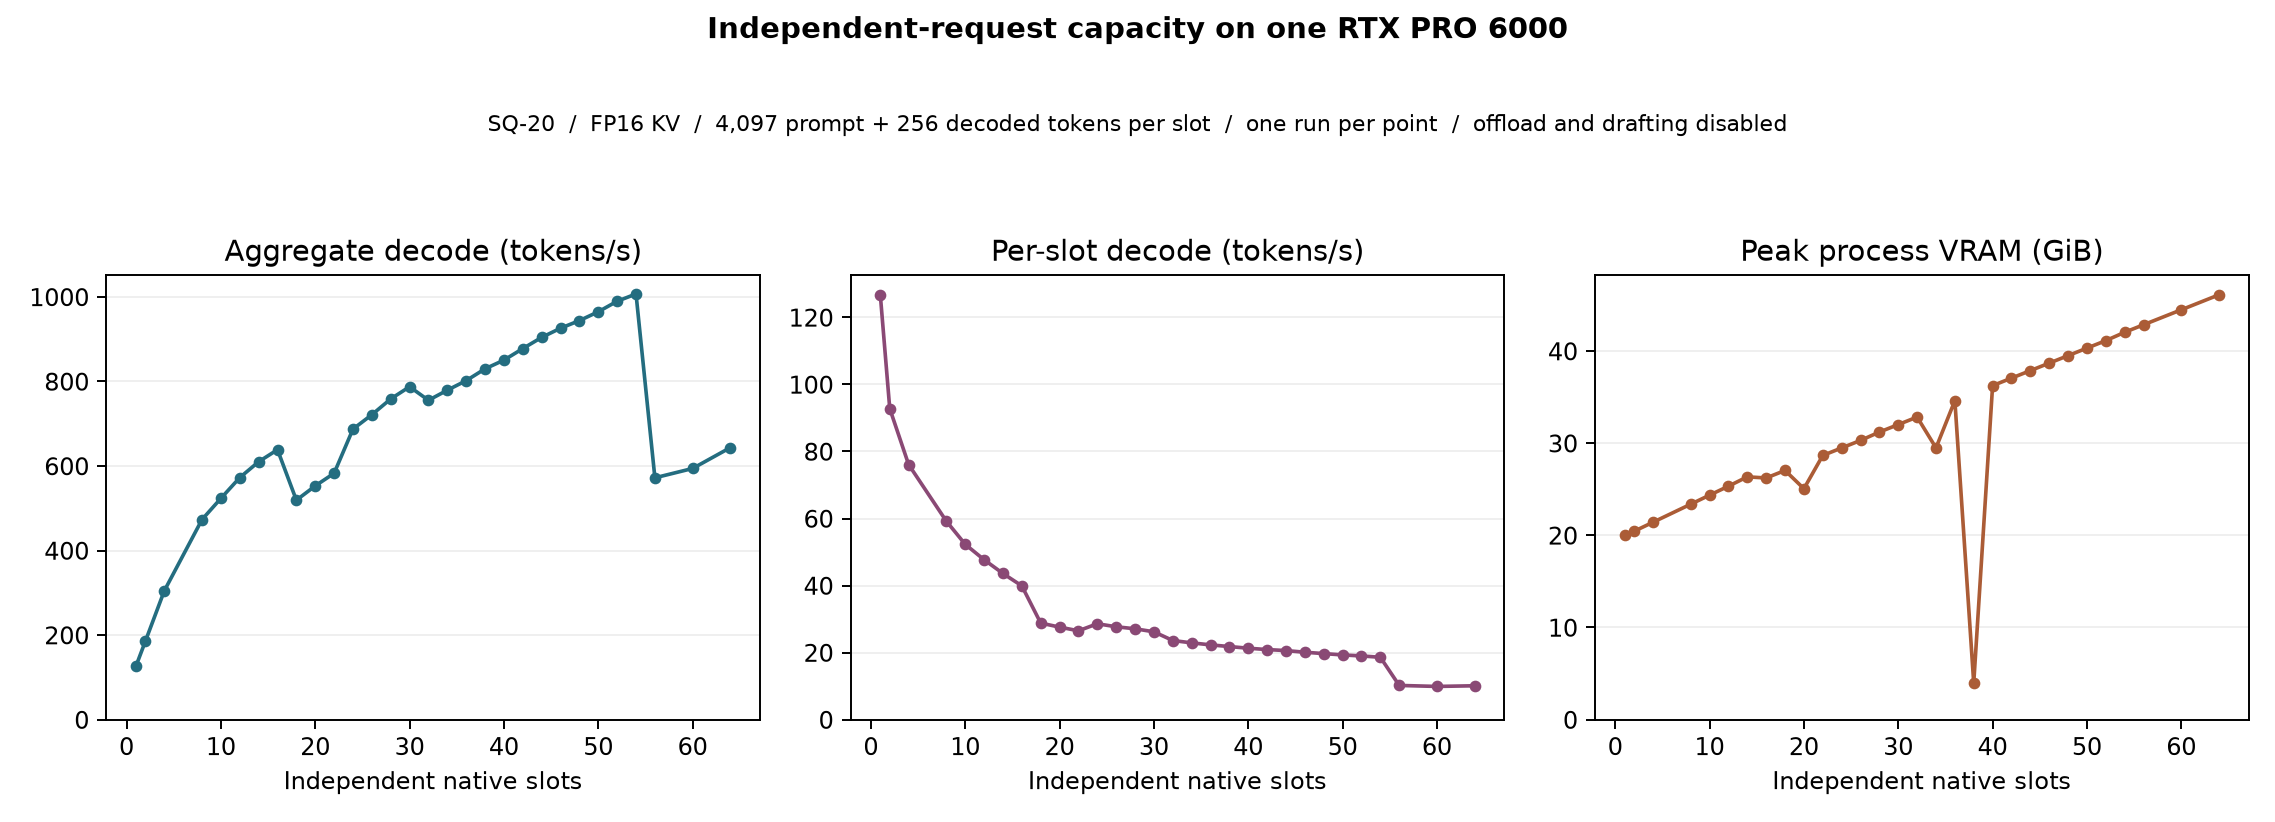
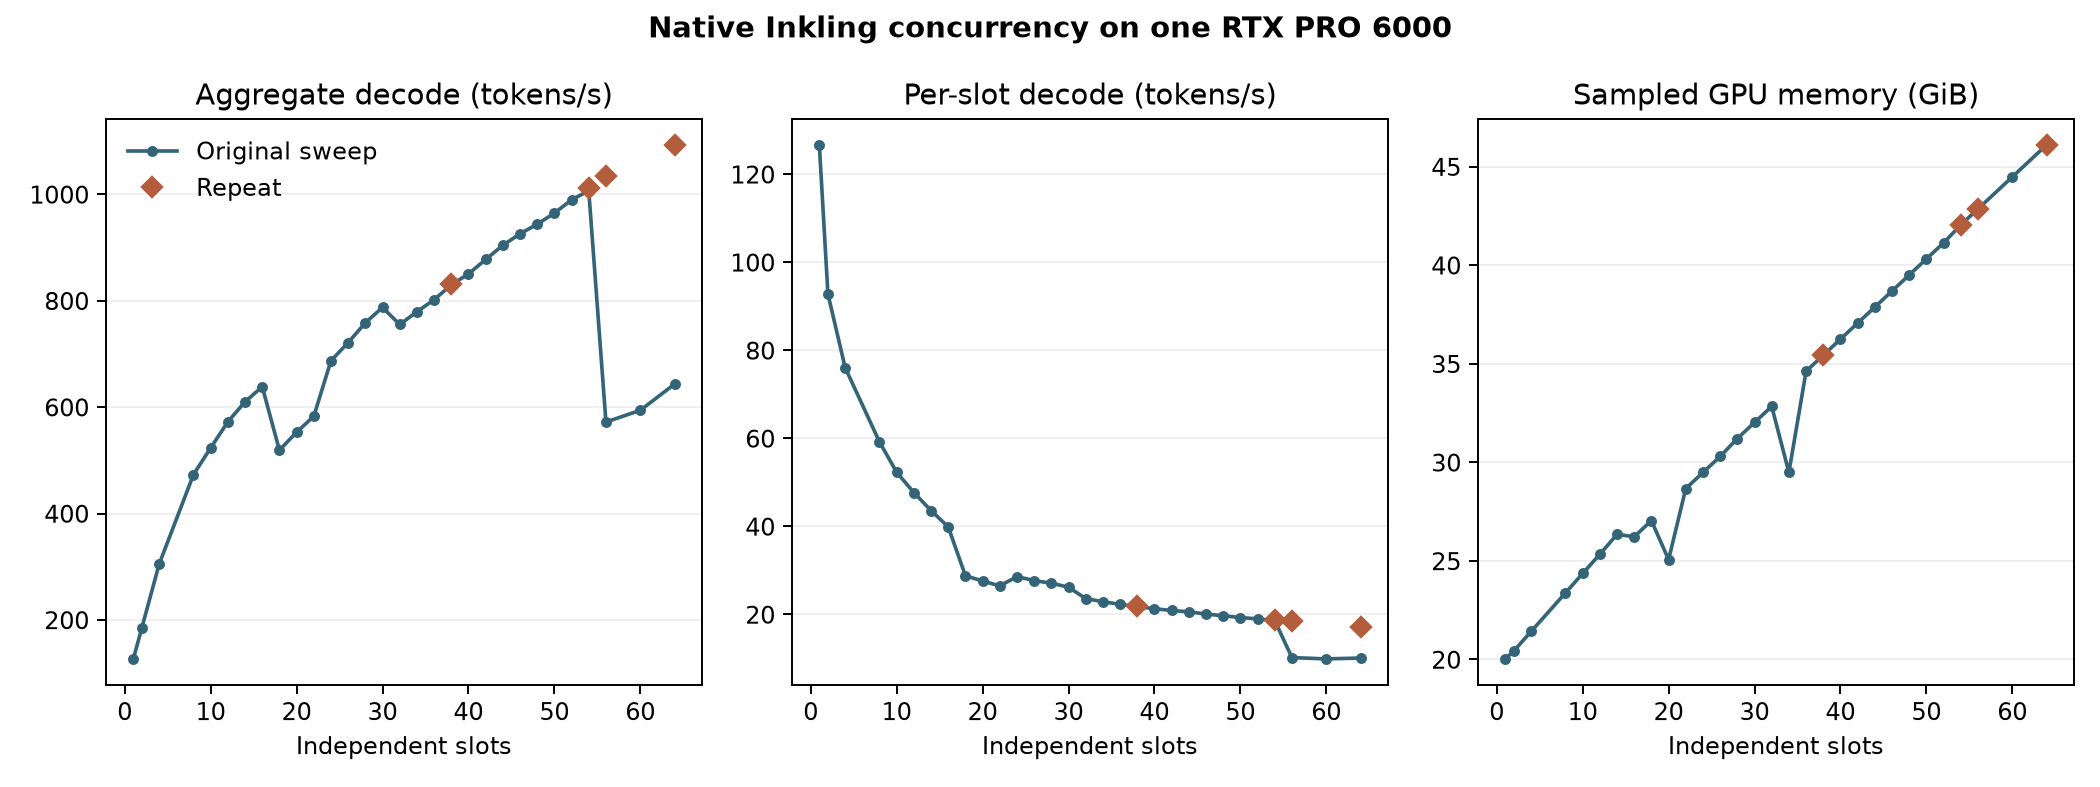
Recheck native concurrency above 54 slots and correct VRAM sample

diff --git a/README.md b/README.md
@@ -76,8 +76,9 @@ Four fresh engine processes restored the same 4,097-token checkpoint with the OS
 ### Concurrent requests
 
 The native concurrency sweep used independent 4,097-token prompts and 256
-output tokens per slot. Each point is one run. At 54 slots the engine reached
-1,006.9 aggregate tokens/s and 18.6 tokens/s per slot.
+output tokens per slot. A repeat at 38, 54, 56 and 64 slots found 1,093.2 aggregate tokens/s at 64 slots, compared with 643.5 on its first run. Both runs fit in GPU memory. The first sweep’s drop above 54 slots did not reproduce. The original 38-slot memory sample was below the model footprint and is omitted. Its repeat measured 35.44 GiB.
+
+[Download both concurrency runs](docs/benchmarks/inkling/native-concurrency.csv)
 
 ![Native throughput, per-slot speed and GPU memory by concurrent slot count](docs/benchmarks/inkling/native-concurrency.png)
 
